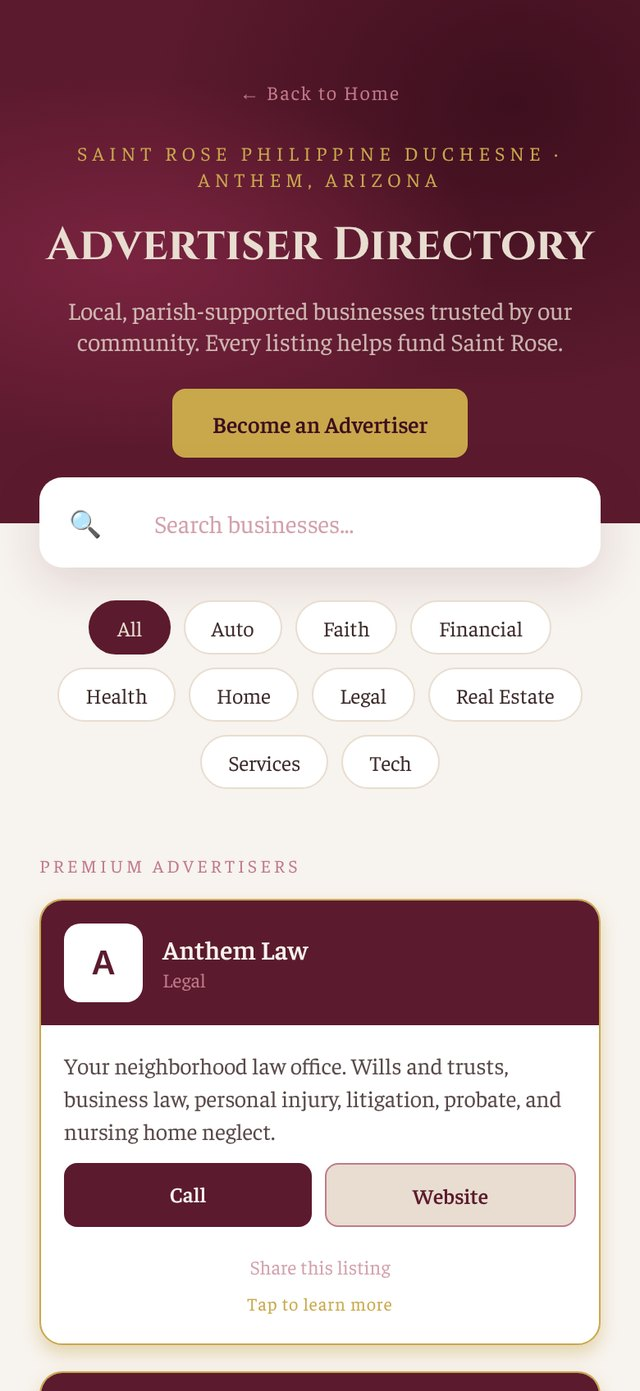
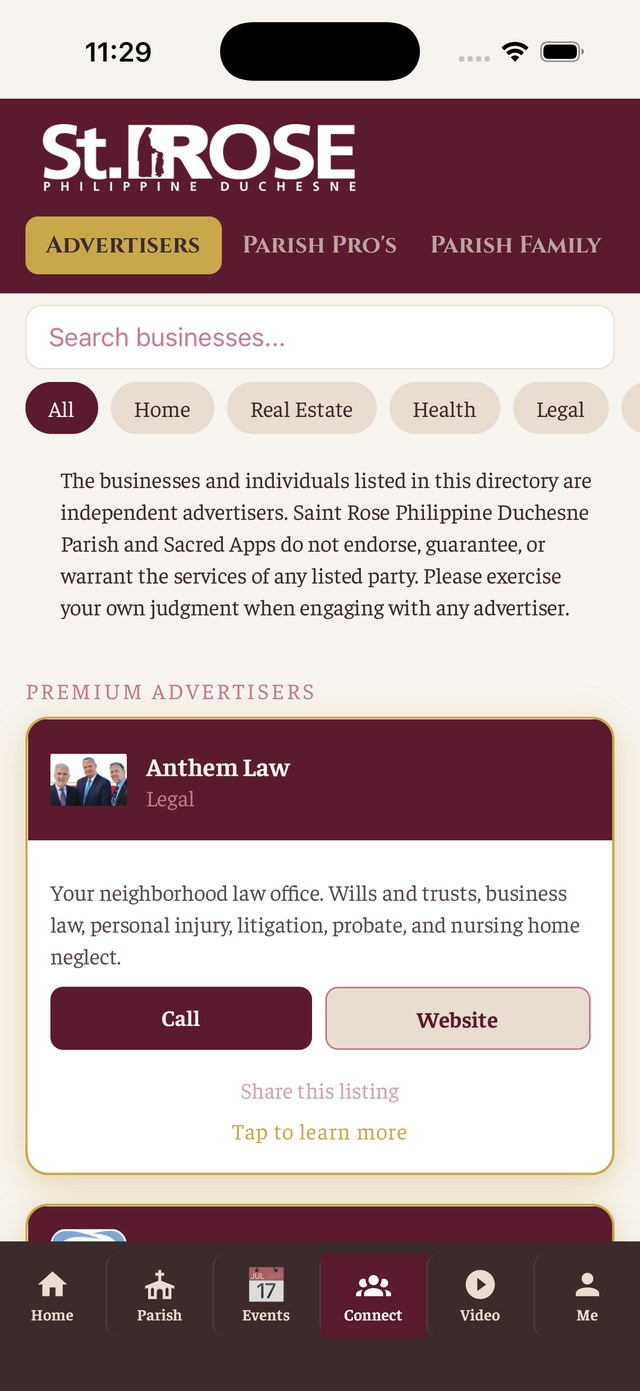
Use real app Advertisers screenshot on advertiser intro

diff --git a/advertiser-intro/index.html b/advertiser-intro/index.html
@@ -313,7 +313,7 @@ h1, h2 {
         <p class="lead">Neighbors browse by category or search by name. Premium listings sit right at the top.</p>
       </div>
       <div class="shot">
-        <img src="/images/app/adv-list.jpg" alt="The Saint Rose Advertiser Directory with a search bar, category buttons and Anthem Law's Premium listing" width="640" height="1391" loading="lazy">
+        <img src="/images/app/adv-list.jpg?v=2" alt="The Saint Rose Advertiser Directory with a search bar, category buttons and Anthem Law's Premium listing" width="640" height="1391" loading="lazy">
       </div>
     </section>
 
